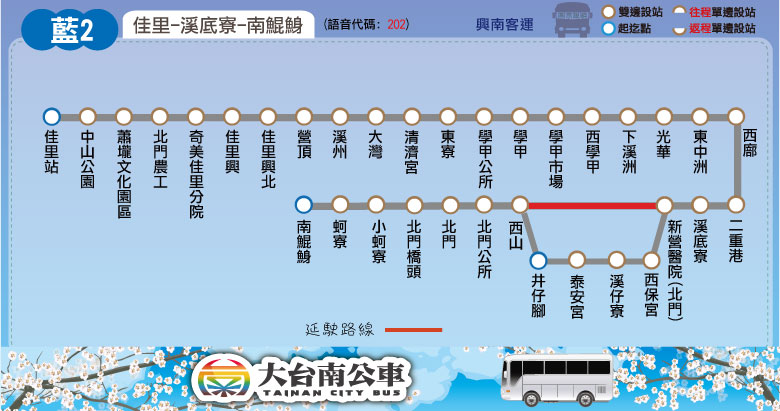
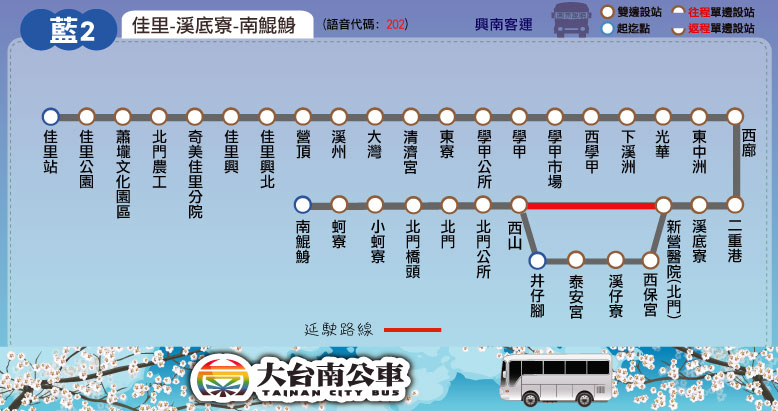
站位更名：棕幹線、藍2、藍3(「中山公園」更名為「佳里公園」)

diff --git a/route/fare_and_time/blue_3.js b/route/fare_and_time/blue_3.js
@@ -1,6 +1,6 @@
 blue_3_interval_name = ["佳里","佳里興","大灣","學甲","東中洲","溪底寮","三寮灣","蘆竹溝"];
 blue_3_interval_stop = [
-["佳里站","中山公園"], // 佳里
+["佳里站","佳里公園"], // 佳里
 ["蕭壠文化園區","北門農工","奇美佳里分院","佳里興","佳里興北"], // 佳里興
 ["營頂","溪州","大灣","清濟宮"], // 大灣
 ["東寮","學甲公所","學甲","學甲市場","西學甲","下溪洲"], // 學甲
@@ -9,7 +9,6 @@ blue_3_interval_stop = [
 ["東三寮灣","三寮灣"], // 三寮灣
 ["蘆竹溝"] // 蘆竹溝
 ];
-blue_3_stop_time_consume = [0,2,3,4,5,6,7,8,9,10,11,13,14,15,16,17,18,19,20,22,23,24,25,26,27,30];
 blue_3_fare = [
 [26],
 [26,26],
@@ -23,7 +22,7 @@ blue_3_fare = [
 // format = [time at the start stop] or
 // [time, other] or
 // [time, start_stop, end_stop, other]
-blue_3_main_stop_name = ["佳里","糖廠前","奇美<br />佳里分院","大灣","學甲","東中洲","溪底寮","三寮灣","蘆竹溝"];
+blue_3_main_stop_name = ["佳里","蕭壠<br />文化園區","奇美<br />佳里分院","大灣","學甲","東中洲","溪底寮","三寮灣","蘆竹溝"];
 blue_3_main_stop_time_consume = [0, 3, 5, 10, 15, 20, 24, 27, 30];
 blue_3_important_stop = [0, 4, 8]; // 佳里, 學甲, 蘆竹溝
 blue_3_time_go = [["05:25",0,4],["06:00"],["10:40"],["18:10"]];

diff --git a/route/fare_and_time/blue_2.js b/route/fare_and_time/blue_2.js
@@ -1,6 +1,6 @@
 blue_2_interval_name = ["佳里","佳里興","大灣","學甲","東中洲","溪底寮","北門","南鯤鯓"];
 blue_2_interval_stop = [
-["佳里站","中山公園"], // 佳里
+["佳里站","佳里公園"], // 佳里
 ["蕭壠文化園區","北門農工","奇美佳里分院","佳里興","佳里興北"], // 佳里興
 ["營頂","溪州","大灣","清濟宮"], // 大灣
 ["東寮","學甲公所","學甲","學甲市場","西學甲","下溪洲"], // 學甲
@@ -9,7 +9,6 @@ blue_2_interval_stop = [
 ["北門公所","北門","北門橋頭"], // 北門
 ["小蚵寮","蚵寮","南鯤鯓"] // 南鯤鯓
 ];
-blue_2_stop_time_consume = [0,2,3,4,5,6,7,8,9,10,11,13,14,15,16,17,18,19,20,22,23,24,27,28,28,30,31,28,29,30,31,33,34,35];
 blue_2_fare = [
 [26],
 [26,26],

diff --git a/route/fare_and_time/brown.js b/route/fare_and_time/brown.js
@@ -13,7 +13,7 @@ brown_interval_stop = [
 ["學甲國中","學甲郵局","學甲","學甲公所","東寮"], // 學甲
 ["清濟宮","大灣","溪州","營頂"], // 大灣
 ["佳里興北","佳里興","奇美佳里分院","北門農工","蕭壠文化園區"], // 佳里興
-["中山公園","佳里站"] // 佳里
+["佳里公園","佳里站"] // 佳里
 ];
 brown_fare = [
 [26],
